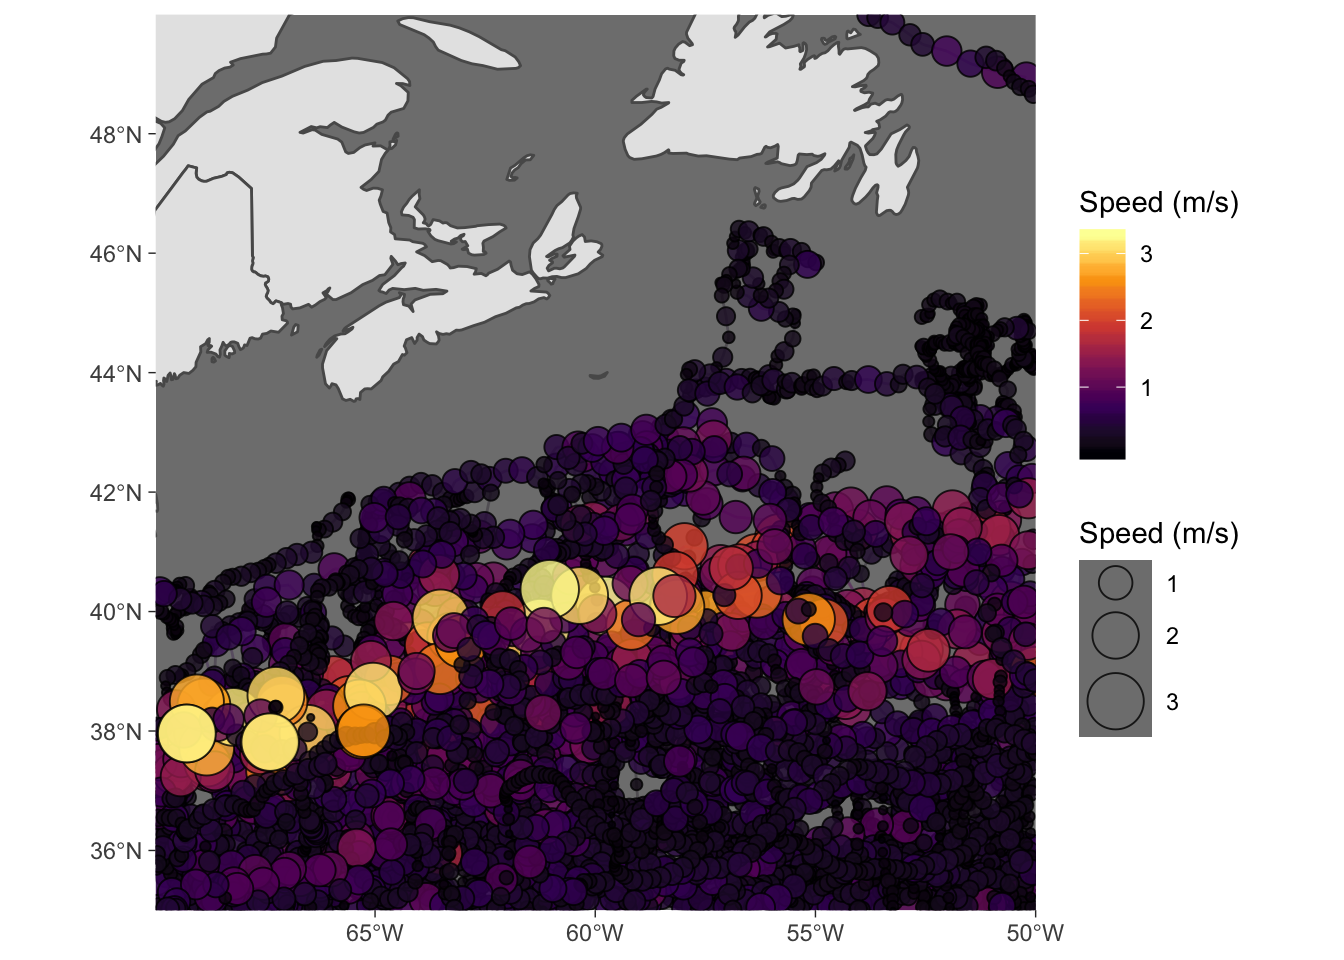
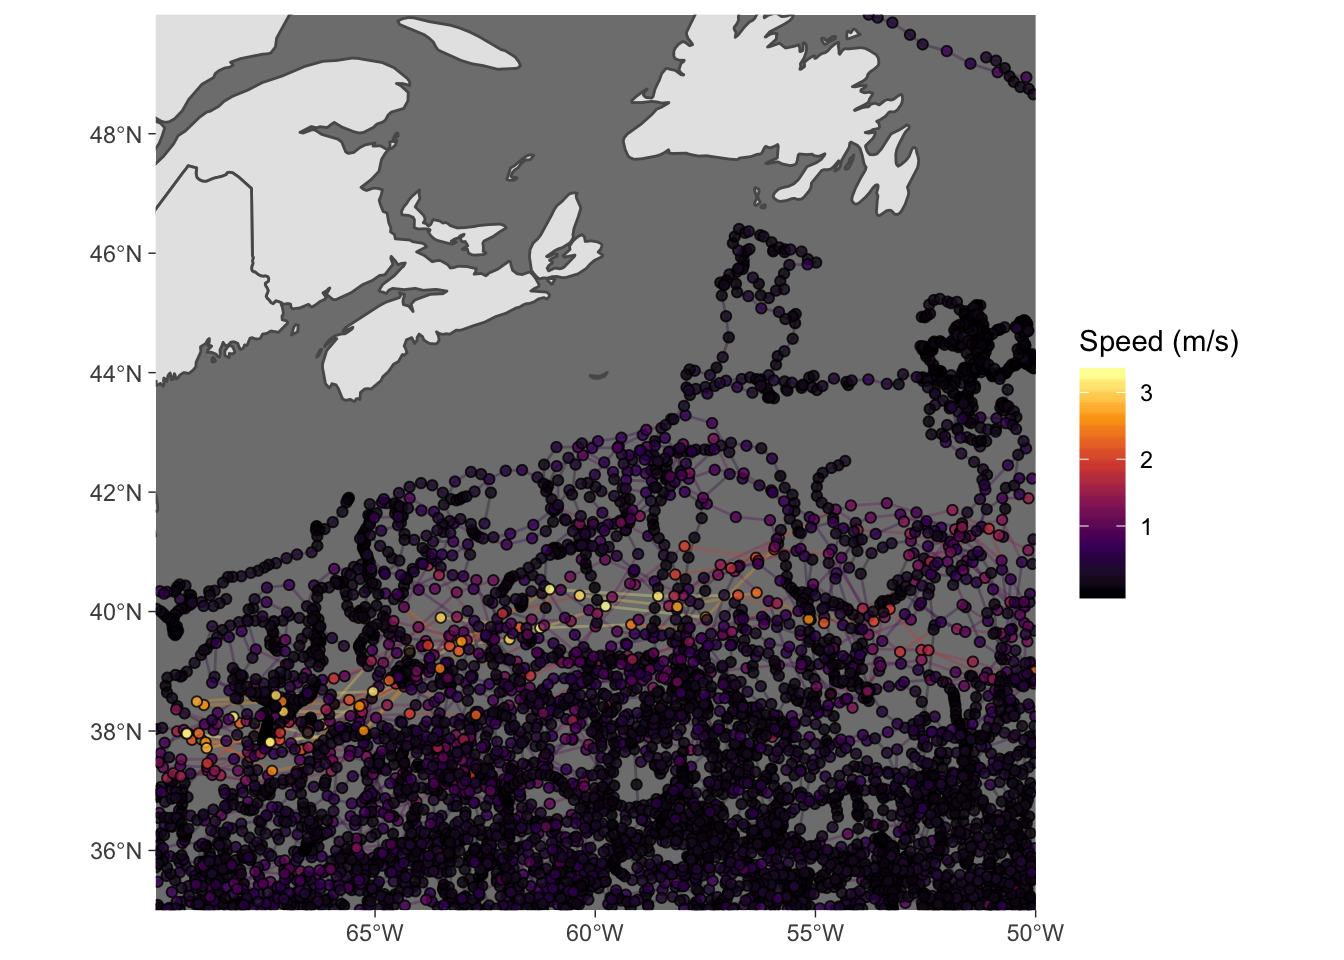
do not plot speed by size

Changed region(s): [[0.0938, 0.1875, 0.9375, 0.9688], [0.625, 0.0, 0.7812, 0.0938]]

diff --git a/content/post/2020-04-27_animate_movement_in_r.html b/content/post/2020-04-27_animate_movement_in_r.html
@@ -76,7 +76,7 @@ df_all = left_join(ideal,df_ave)</code></pre>
             aes(x=lon,y=lat,group=id,color=spd), 
             alpha = 0.3)+
   geom_point(data = df_all, 
-             aes(x=lon,y=lat,group=id,fill=spd,size=spd),
+             aes(x=lon,y=lat,group=id,fill=spd),
              alpha = 0.8,shape=21)+ # NEED group for animation
   
   # formatting
@@ -85,8 +85,7 @@ df_all = left_join(ideal,df_ave)</code></pre>
   scale_size_continuous(range = c(0.1,10))+
   labs(x=NULL, y=NULL, 
        fill = &#39;Speed (m/s)&#39;, 
-       color = &#39;Speed (m/s)&#39;, 
-       size = &#39;Speed (m/s)&#39;)+
+       color = &#39;Speed (m/s)&#39;)+
   theme_dark()+
   theme(panel.grid = element_blank())
 p</code></pre>
